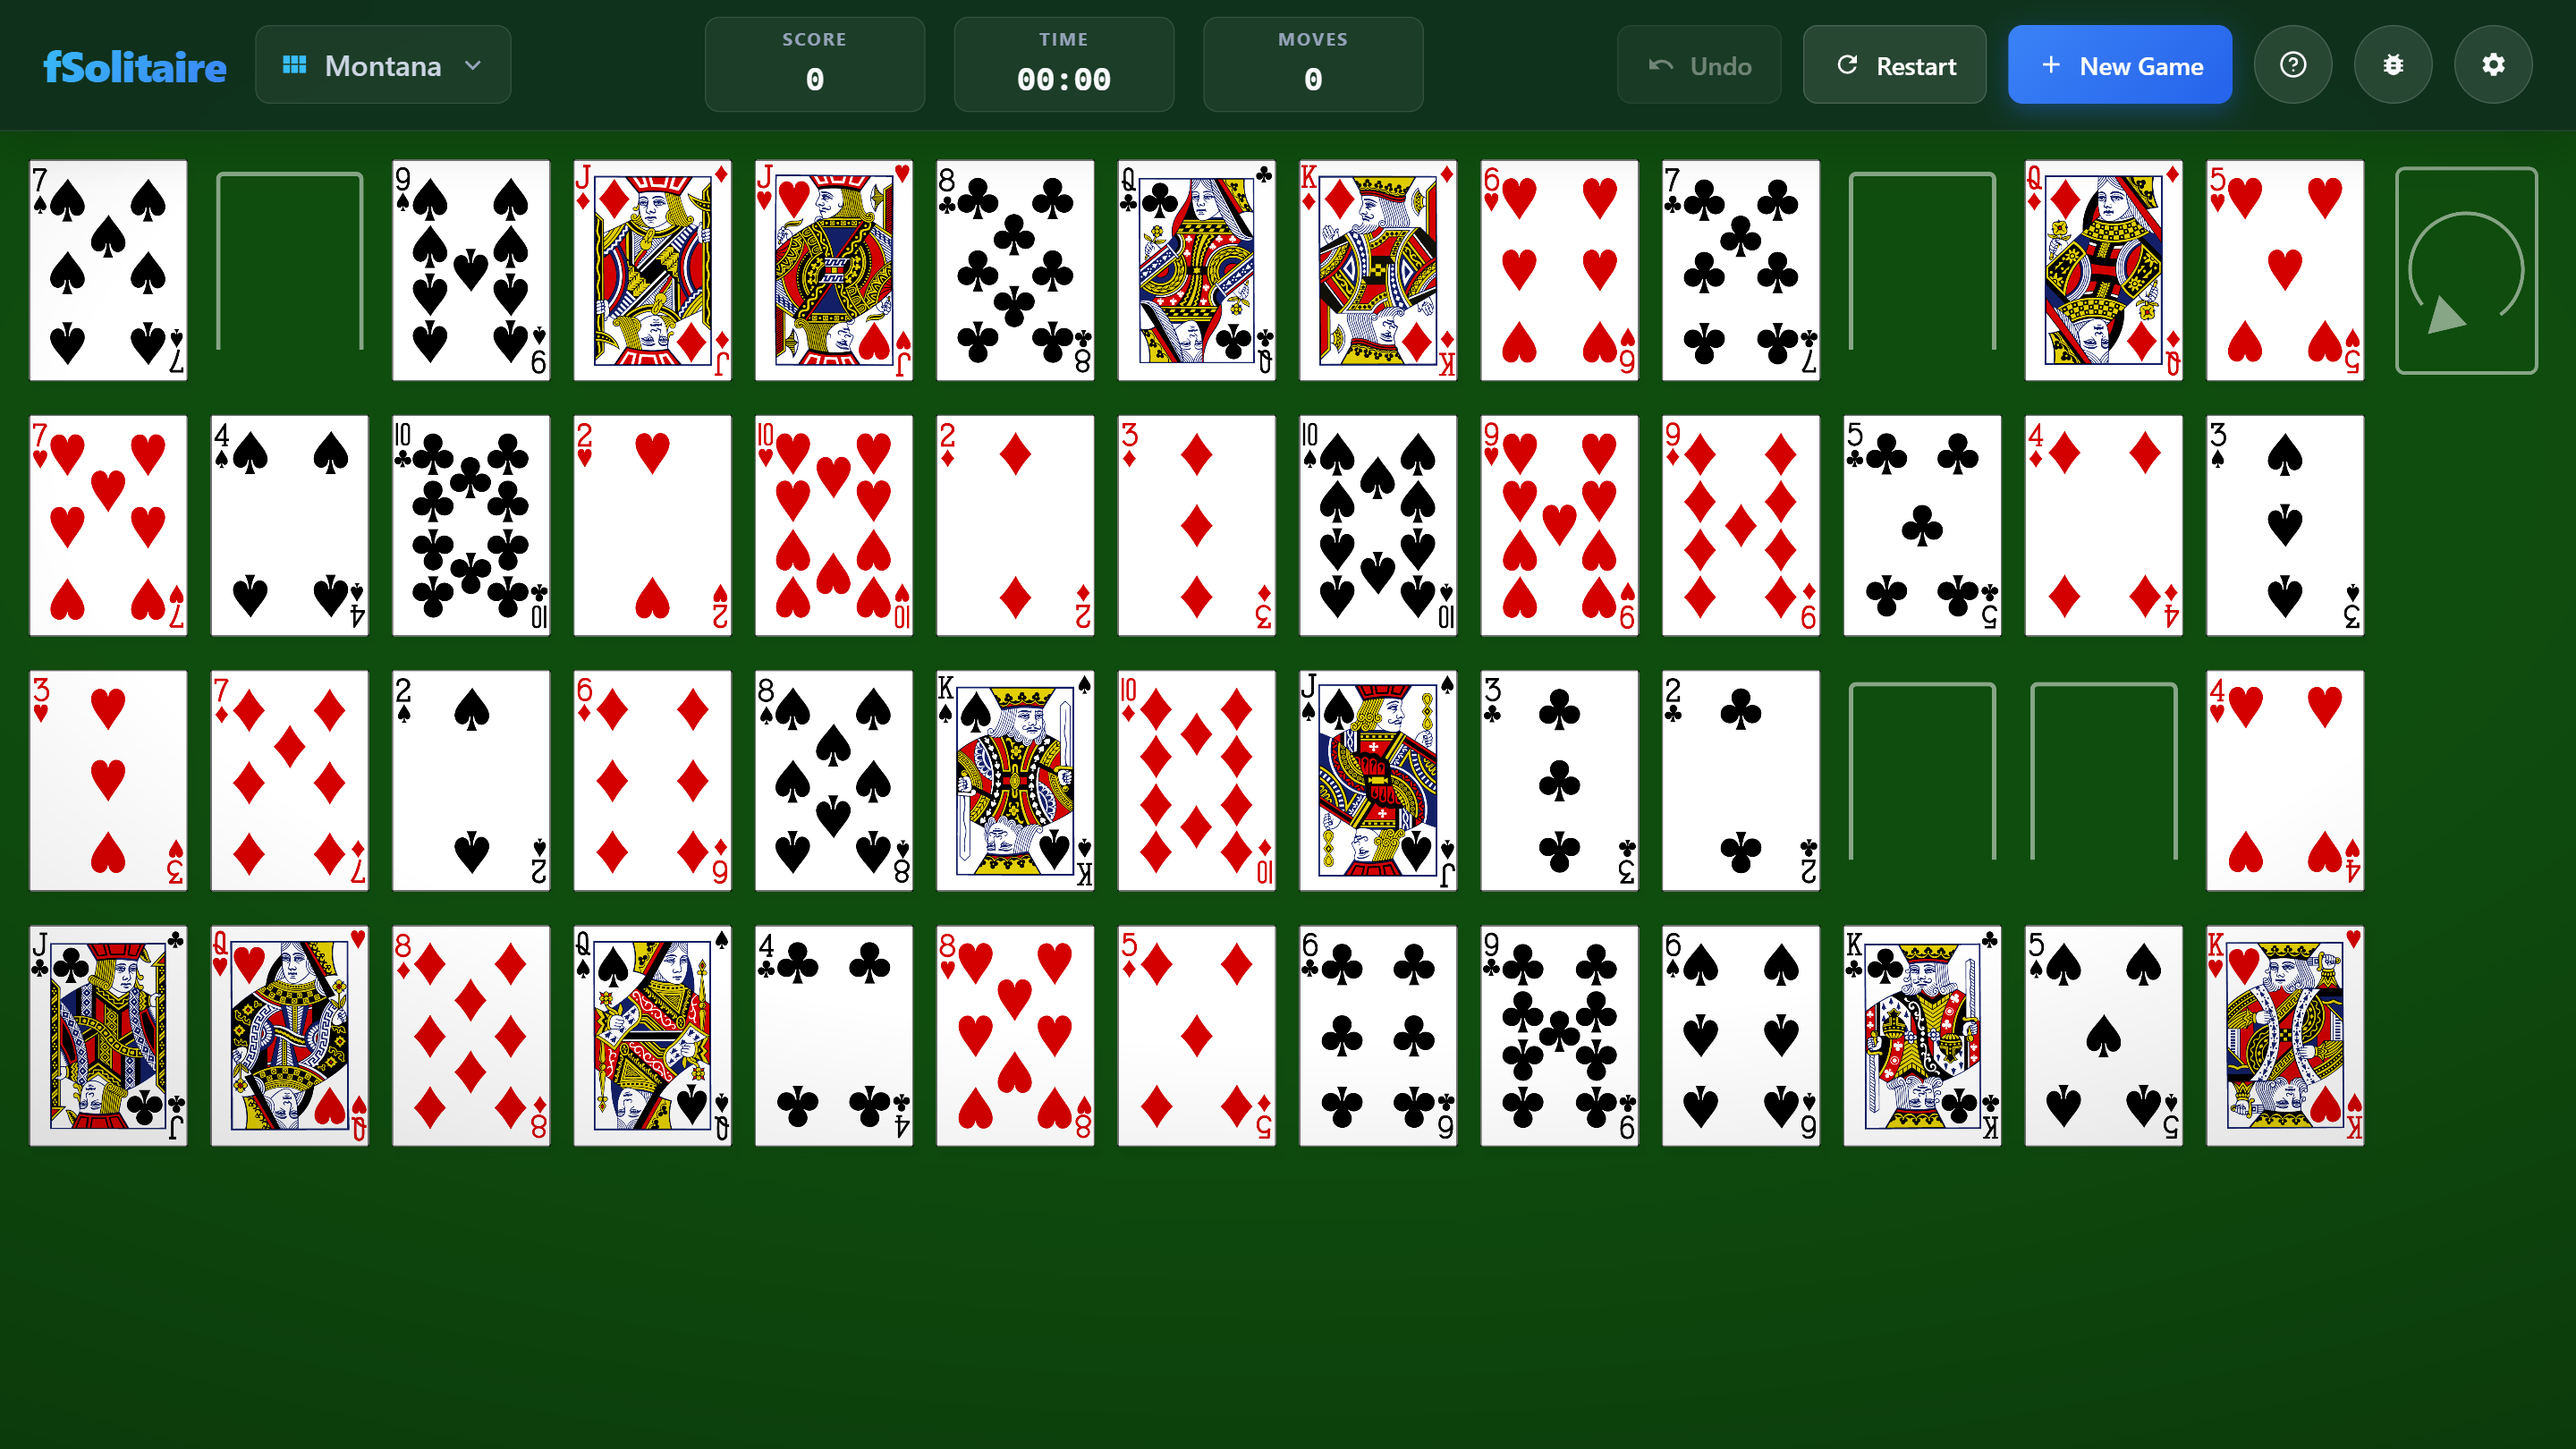
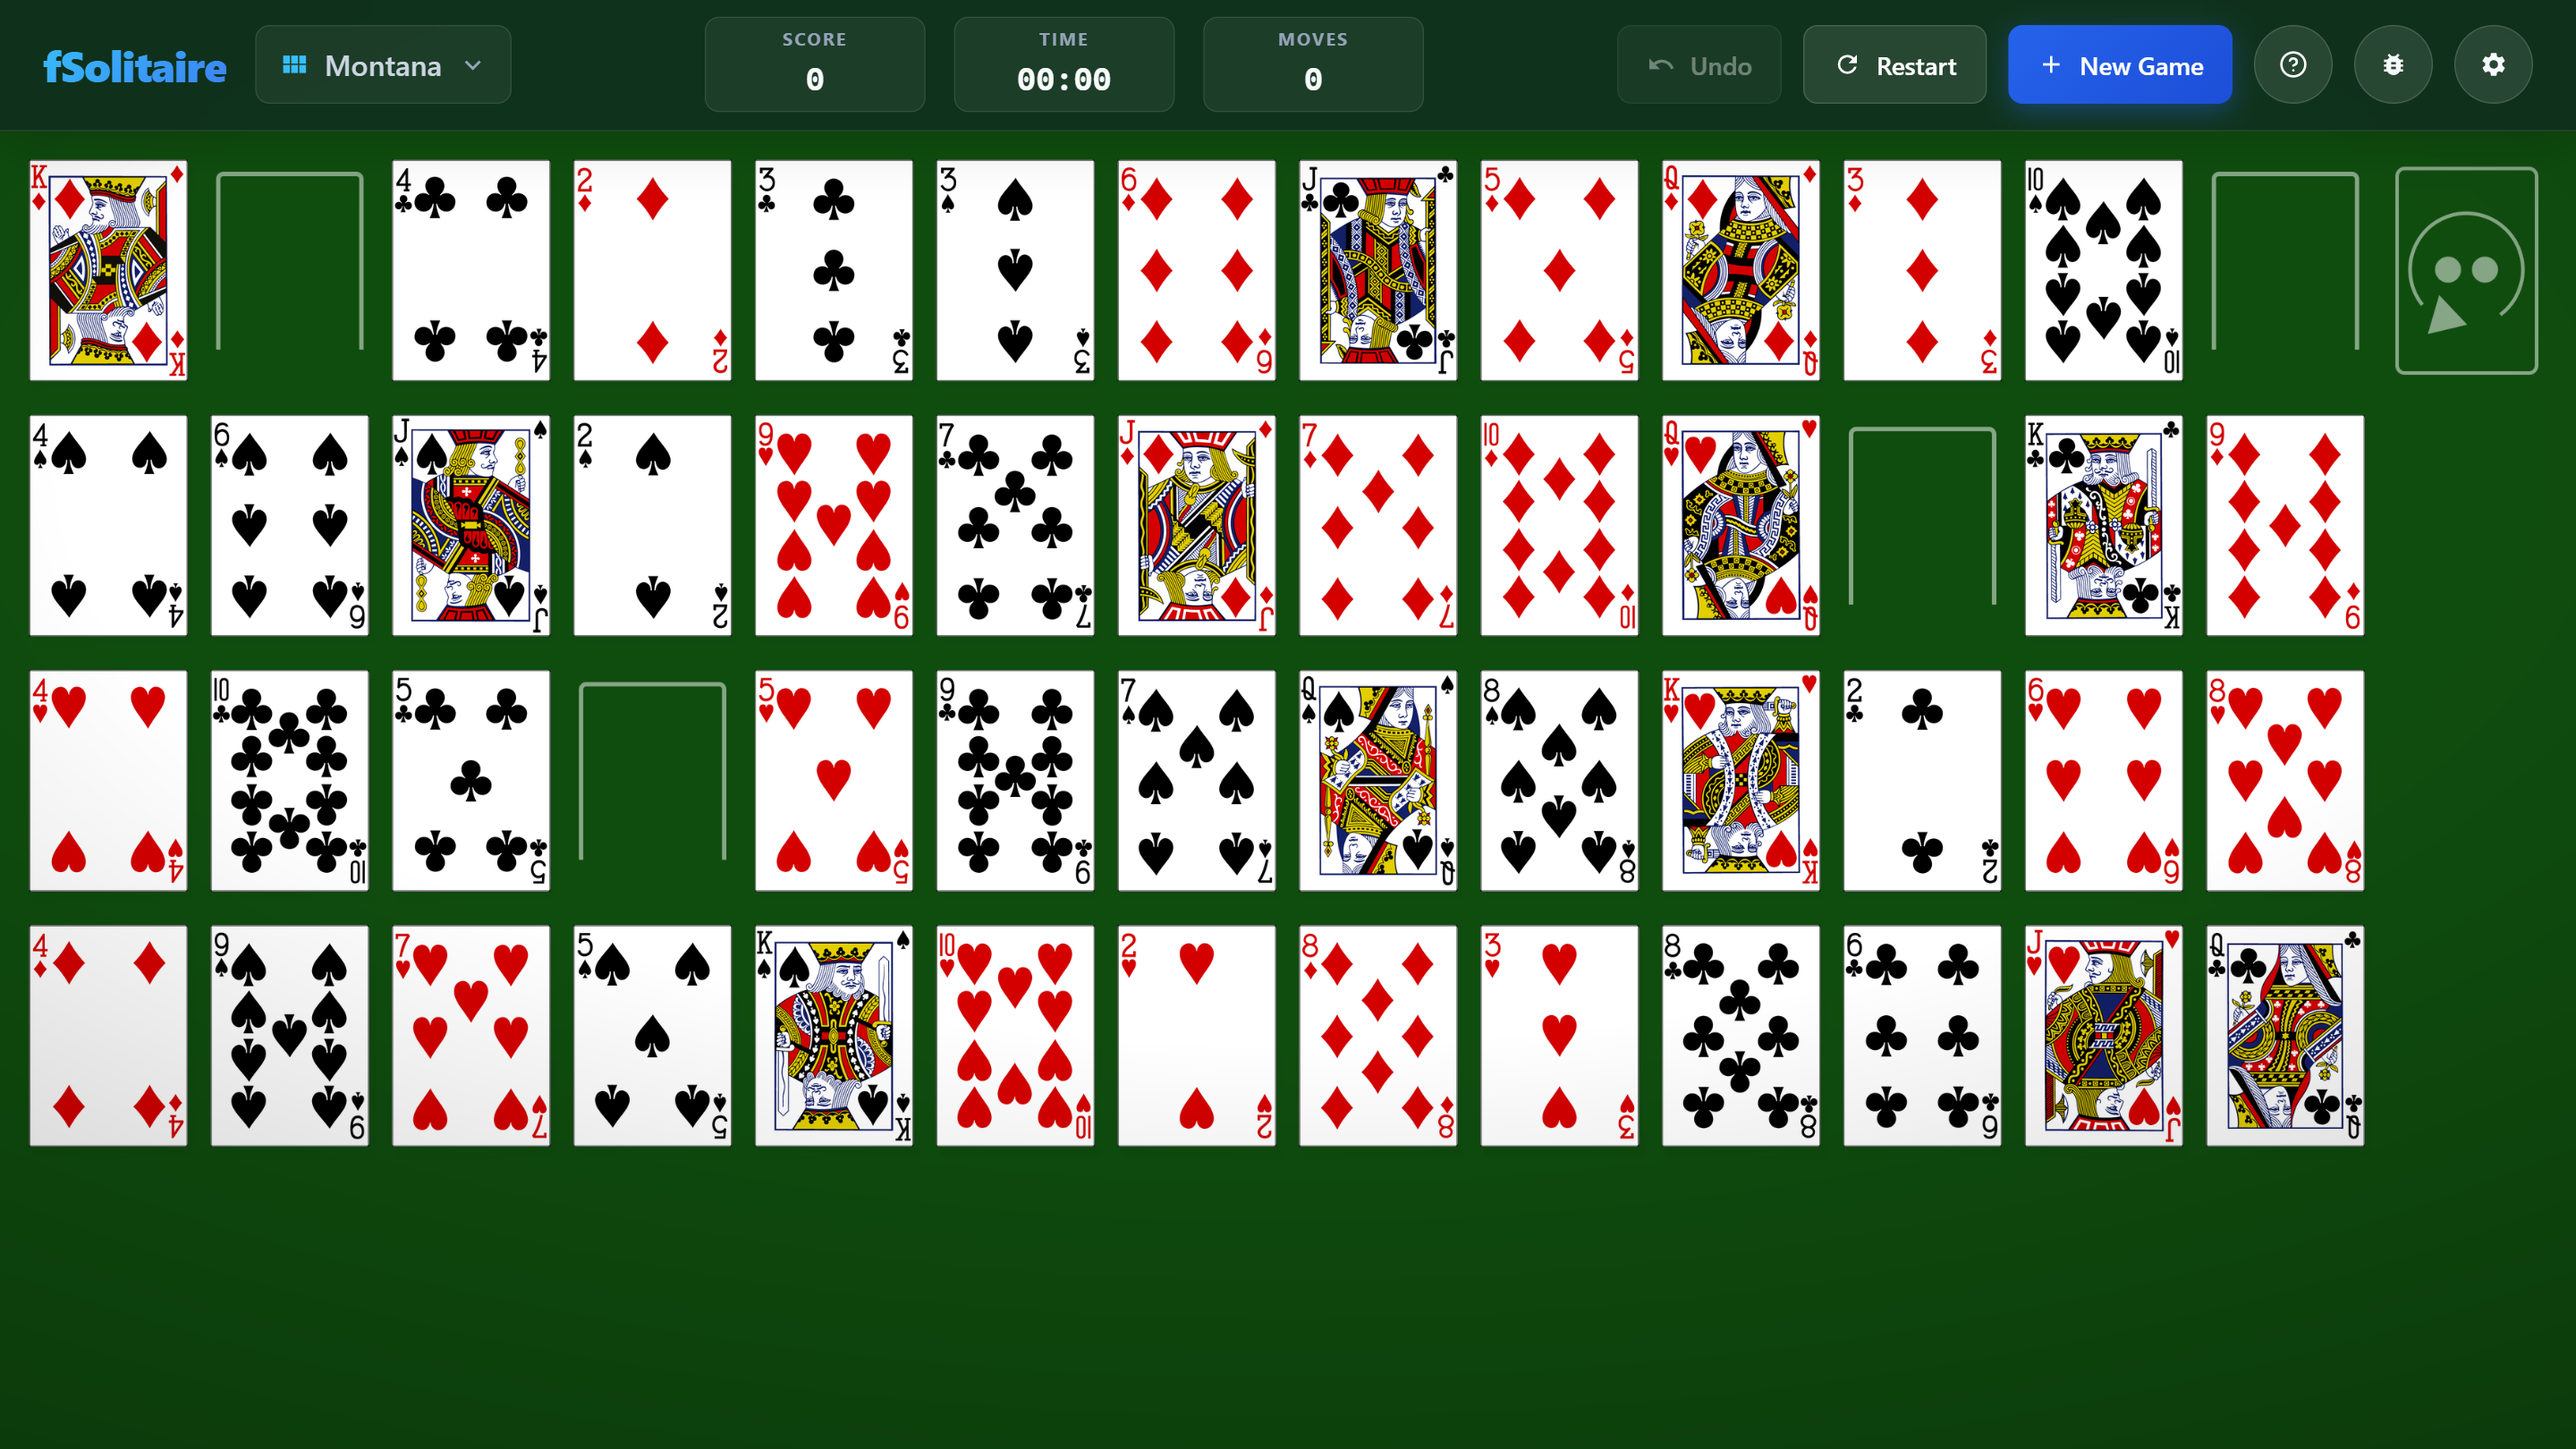
docs: retake Montana's screenshot with the redeal pips and describe the placeholder hooks
The rules page and the game browser now show the marker with its two pips.
The add-solitaire-game skill names the isEmptySlotActionable and
pileBackgroundKey overrides, and the candidate-games notes no longer say a
spent stock keeps its recycle artwork. The work log marks every step done.

diff --git a/docs/candidate-games.md b/docs/candidate-games.md
@@ -217,10 +217,11 @@ a large `maxVisible` fans a whole pile, but:
 
 ### E6. A status readout for game-specific counters
 
-`GameMetrics` holds only score, moves and undo depth. Montana's remaining
-redeals are already invisible to the player today, and these games add more:
-La Belle Lucie's redeals, Vegas' passes, Golf's strokes, and Poker Squares'
-line scores. An optional `status` on `PlayableGame` (a short label and value,
+`GameMetrics` holds only score, moves and undo depth. A count of two or three
+can be drawn on the board instead, as Montana's redeal marker does with pips
+(see [`montana-redeal-count.md`](montana-redeal-count.md)). These games add
+counters that pips cannot carry: La Belle Lucie's redeals, Vegas' passes,
+Golf's strokes, and Poker Squares' line scores. An optional `status` on `PlayableGame` (a short label and value,
 evented like the metrics) would cover all of them, shown in
 `header_bar.component.html` when present.
 
@@ -304,9 +305,10 @@ and three passes when drawing three. Play is otherwise Klondike.
   −52, gives +5 per card to a foundation and −5 per card taken back off one,
   with no flip bonus and no recycle penalty.
 - A pass limit in `KlondikeFamilyGame.drawCardsFromStock`, which already counts
-  `recycleCount`. Once the passes are spent, recycling stops working. The stock
-  slot keeps its recycle artwork, because a zone's `backgroundKey` is fixed for
-  the game's life; an E6 readout would show the passes left.
+  `recycleCount`. Once the passes are spent, recycling stops working.
+  `KlondikeFamilyGame.isSpentStock` would count the passes too, so the stock
+  shows the closed outline and drops its pointer. An E6 readout would show the
+  passes left.
 - A "Scoring: Standard / Vegas" option on the Klondike entry.
 
 ### 3. Moosehide
@@ -496,7 +498,8 @@ on Montana. **Effort:** M for the two Moons, S for Addiction.
 **What it takes.**
 
 - Addiction: `MAX_REDEALS` becomes a constructor option, plus a "Redeals: 2 /
-  3" choice. E6 would finally show the player how many are left.
+  3" choice. The marker shows two pips, from `REDEAL_MARKER_PLACEHOLDERS`, so
+  three redeals need a three-pip set of artwork.
 - The Moons: generalise `src/games/montana` over the column count (14) and the
   deck (`MONTANA_DECK` without Aces versus the full deck). Column 0 holds the
   Aces for good: `accept: null` and `grab: { kind: "none" }`. `montanaCellRule`

diff --git a/docs/montana-redeal-pips-log.md b/docs/montana-redeal-pips-log.md
@@ -40,7 +40,7 @@ up again from here. Update it with every commit.
 - [x] 4. Montana: draw the pips, and make the marker inactive when it cannot
       redeal. Update the rules page.
 - [x] 5. Klondike family: make the empty stock inactive when the waste is empty.
-- [ ] 6. Retake Montana's screenshot and thumbnails, update the skills and the
+- [x] 6. Retake Montana's screenshot and thumbnails, update the skills and the
       options doc, and run `yarn verify`.
 
 ## Progress
@@ -92,7 +92,7 @@ up again from here. Update it with every commit.
     pressable. This covers Klondike, its variants and Double Klondike.
   - The gesture is unchanged. `drawCardsFromStock` already returned early in
     that state, so a press on the inactive stock still does nothing.
-- Step 6, part 1: checked in the browser (`yarn start`, 1440 × 810 at 2×) by
+- Step 6, part 1 (`4e55fc8`): checked in the browser (`yarn start`, 1440 × 810 at 2×) by
   pressing the Montana marker with mouse events dispatched on the canvas.
   - The pips, the hollow pip, the closed outline and undo all drew correctly,
     with no console errors.
@@ -108,6 +108,16 @@ up again from here. Update it with every commit.
     cursor drops at once, and fails without the fix.
   - Klondike was not checked by hand. Its unit tests cover it, and it uses the
     same engine path.
+- Step 6, part 2: the screenshot and the docs.
+  - Retook Montana's `overview.png` on a fresh deal at 1440 × 810 at 2×, so the
+    marker shows two filled pips, then ran `yarn build:thumbs`. The capture was
+    re-encoded losslessly with sharp at compression level 9. Do not pass sharp
+    an `effort`: it turns on palette quantisation, which is lossy.
+  - The `add-solitaire-game` skill, step 7, now names the two overrides.
+  - `montana-redeal-count.md` says the options are built.
+  - `candidate-games.md`: E6, Vegas scoring and Addiction no longer say the
+    stock keeps its recycle artwork or that the redeals are invisible.
+  - `yarn verify` passes.
 - Note: the dev server restores the saved game on reload. Clear local storage
   to start from a fresh deal.
 
@@ -119,4 +129,5 @@ git log --oneline main..
 yarn verify
 ```
 
-Then continue with the first unchecked step above.
+Every step is done. What is left is review, then a merge into `main` (which
+deploys).

diff --git a/.agents/skills/add-solitaire-game/SKILL.md b/.agents/skills/add-solitaire-game/SKILL.md
@@ -242,7 +242,15 @@ Otherwise call `tableGestures(game, options)` with:
   a row wherever it is pressed (Spider, Scorpion, Easthaven).
 - `onPilePress` — a press on an _empty_ slot: Klondike's recycle, Montana's
   redeal. Pair it with `emptyIsActionable` on the zone, which is what gives the
-  slot a pointer cursor.
+  slot a pointer cursor and a hover border.
+
+  If the slot can run out of things to do, override `isEmptySlotActionable`
+  and `pileBackgroundKey` on the game, as `KlondikeFamilyGame` and
+  `MontanaGame` do. The view asks both every frame, so the slot drops its
+  pointer and shows `CLOSED_STOCK_PLACEHOLDER` the moment a press would do
+  nothing. Montana also uses `pileBackgroundKey` to show the redeals left as
+  pips.
+
 - `autoMoveFrom` — which roles answer a double press. Omit it entirely for a
   stockless game: everything on the board is in play.
 

diff --git a/docs/montana-redeal-count.md b/docs/montana-redeal-count.md
@@ -6,9 +6,11 @@ page, or by pressing a marker that has quietly stopped working. This file lists
 the ways we could show the count, and what each one costs, so we can pick one
 together.
 
-**Status:** we chose options 1 and 2a, with Klondike's empty stock made inactive
-as well. [`montana-redeal-pips-log.md`](montana-redeal-pips-log.md) tracks the
-build.
+**Status:** built on the `montana-redeal-pips` branch. We chose options 1 and
+2a, and made Klondike's empty stock inactive as well. The pips sit inside the
+ring rather than under the arrow, so they stay readable on a phone.
+[`montana-redeal-pips-log.md`](montana-redeal-pips-log.md) records the build.
+The rest of this file is the review as it stood when we chose.
 
 ## Where things stand
 
